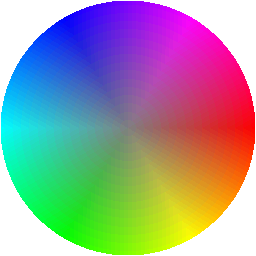
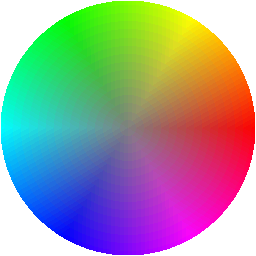
Counter-clockwise Color Wheels
Flipped y axis so color wheels move counter-clockwise. Updated readme to include known bug issue; added caveat about color profiles. Added possible color combinations to table info.

diff --git a/README.md b/README.md
@@ -19,9 +19,9 @@ I have refactored the code for general readability and maintainability.
 
 Color bit-depth can now be changed without separate dialog windows. There are no plans to support uniform control over RGB bit-depth.
 
-Foreground and background colors are no longer  updated by the dialog; this is to avoid overwriting color entries in unlocked palettes. Furthermore, the dialog is no longer concerned about a sprite's color mode, or whether a sprite is open at all. You can left click on the color preview to assign to the foreground color; right click, to the background color. You can also copy and paste the hexadecimal code.
+ The dialog no longer concerns itself whether a sprite is open or what its color mode is. This can result in a [bug](https://github.com/aseprite/api/issues/56) where opening the color picker while a grayscale sprite is active will lead to gray colors in the preview. Even so, I feel this is worth the trade-off. Furthermore, remember that a sprite's color management profile may impact either the appearance or the numberical values of a color.
 
-As seen in the screen capture above, the underlined letters on the buttons show that `Alt+F` gets the foreground color; `Alt+B`, the background color; `Alt+W` creates a new sprite with a color wheel; `Alt+C` closes the dialog.
+Foreground and background colors are no longer updated by the dialog; this is to avoid overwriting color entries in unlocked palettes As seen in the screen capture above, the underlined letters on the buttons show that `Alt+F` gets the foreground color; `Alt+B`, the background color; `Alt+W` creates a new sprite with a color wheel; `Alt+C` closes the dialog. You can left click on the color preview to assign to the foreground color; right click, to the background color. You can also copy and paste the hexadecimal code. 
 
 The HSL color wheel is not guaranteed to give you every color available for the selected channel bit-depths. The number of frames to animate the lightness of the color wheel is based on the maximum bit-depth for red, green and blue channels. HSL is not perceptually uniform. It is used only because it is popular and is built-in. See instead [HSLuv](https://www.hsluv.org/) or [LCH](https://css.land/lch/).
 
@@ -31,6 +31,8 @@ I am still researching the proper expansions from low bit to standard RGB. The t
 
 ## Two Bits
 `2 ^ 2 = 4`, `1 << 2 = 4`, `255 / (4 - 1) = 85`
+
+`4 ^ 3 = 64` possible colors
 
 ![Bit 2](bit2.png)
 
@@ -47,6 +49,8 @@ Step|Decimal|Hex|
 
 ## Three Bits
 `2 ^ 3 = 8`, `1 << 3 = 8`, `255 / (8 - 1) = 36.42857142857143`
+
+`8 ^ 3 = 512` possible colors
 
 ![Bit 3](bit3.png)
 
@@ -65,6 +69,8 @@ Step|Decimal|Hex|Diff|
 
 ## Four Bits
 `2 ^ 4 = 16`, `1 << 4 = 16`, `255 / (16 - 1) = 17`
+
+`16 ^ 3 = 4096` possible colors
 
 ![Bit 4](bit4.png)
 
@@ -91,6 +97,8 @@ Step|Decimal|Hex|
 
 ## Five Bits
 `2 ^ 5 = 32`, `1 << 5 = 32`, `255 / (32 - 1) = 8.225806451612903`
+
+`32 ^ 3 = 32768` possible colors
 
 ![Bit 5](bit5.png)
 
@@ -135,6 +143,8 @@ Step|Decimal|Hex|Diff|
 
 ## Six Bits
 `2 ^ 6 = 64`, `1 << 6 = 64`, `255 / (64 - 1) = 4.047619047619048`
+
+`64 ^ 3 = 262144` possible colors
 
 ![Bit 6](bit6.png)
 
